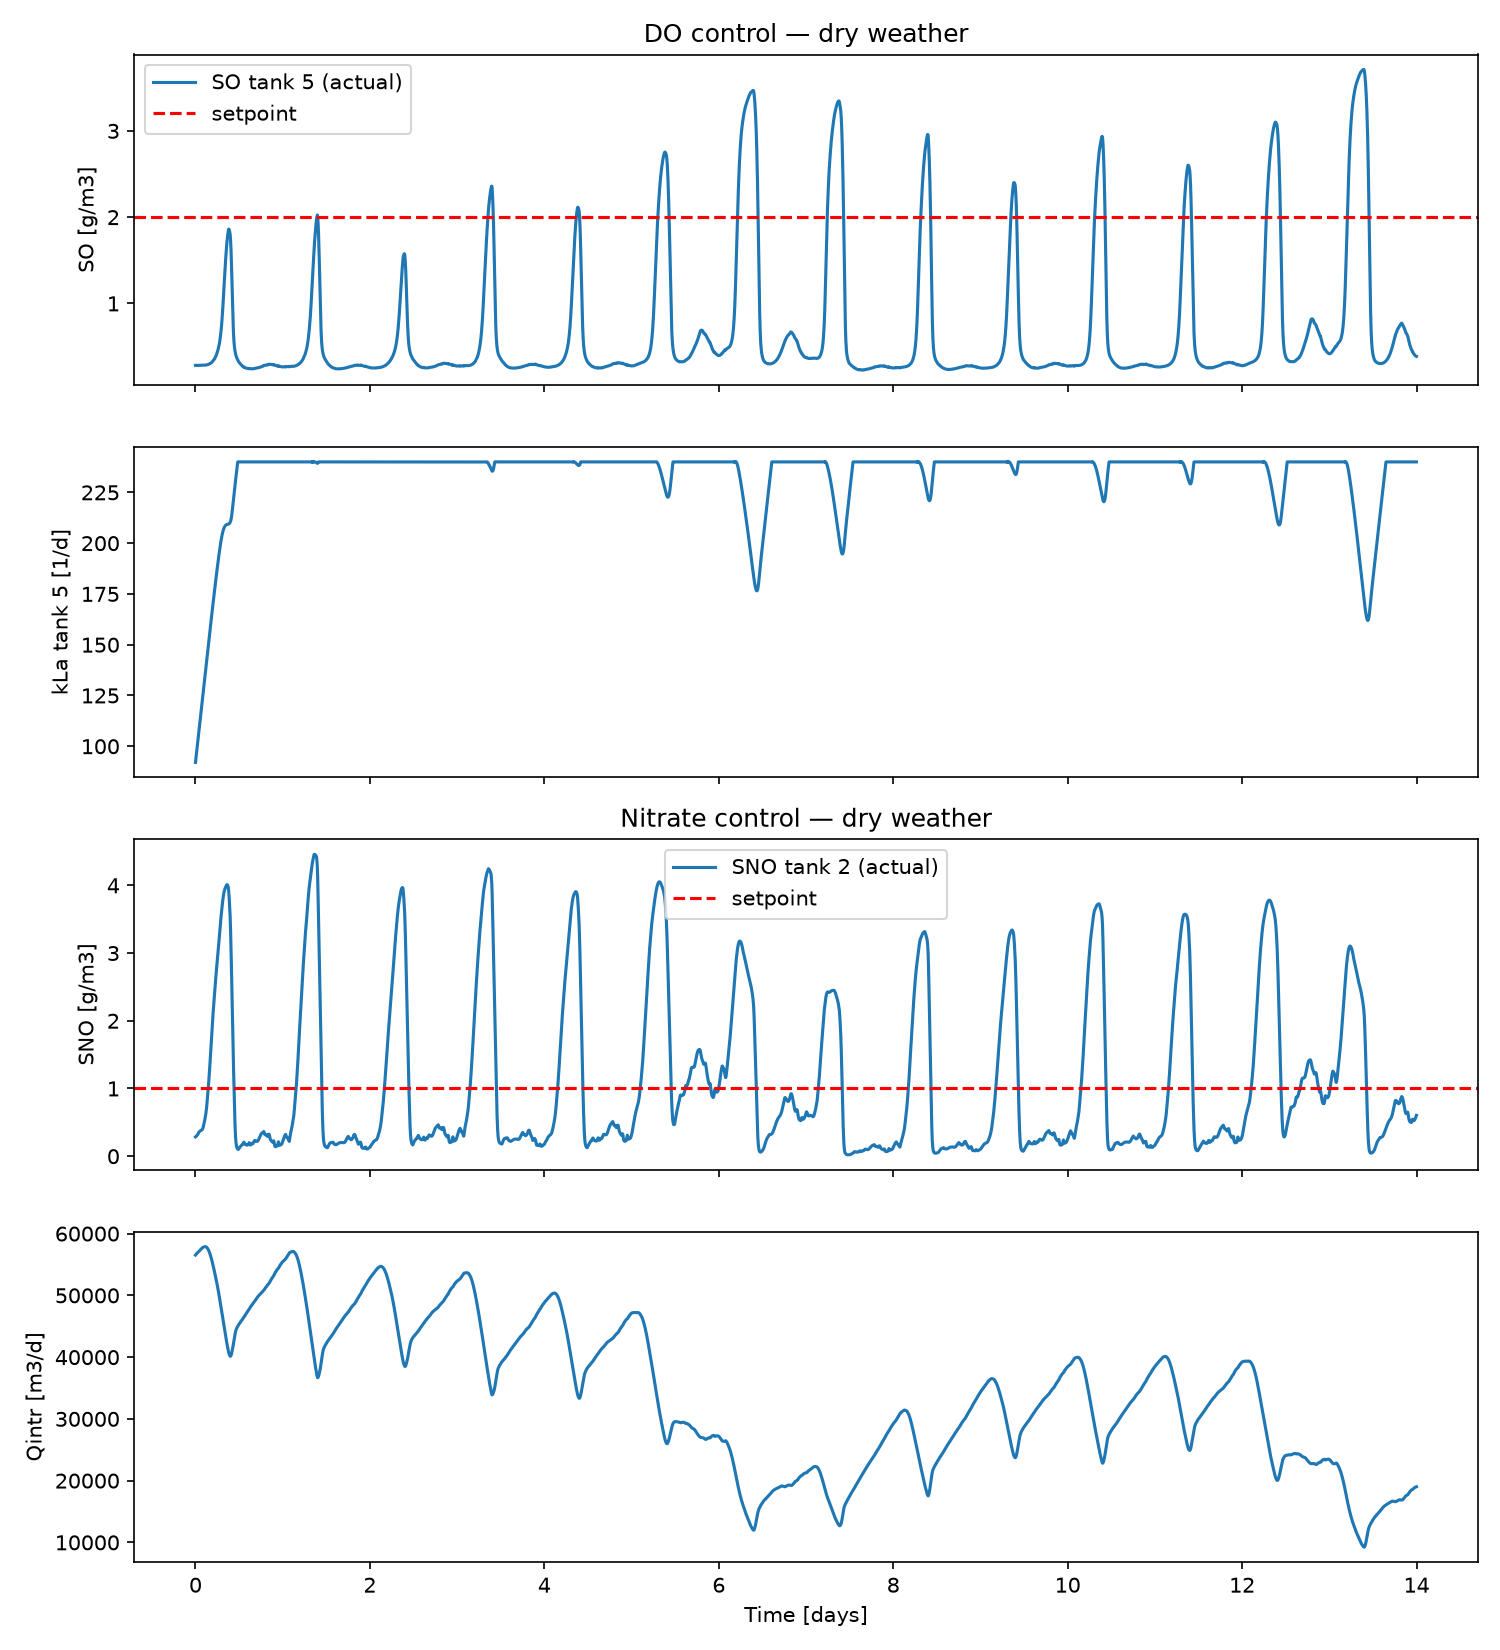
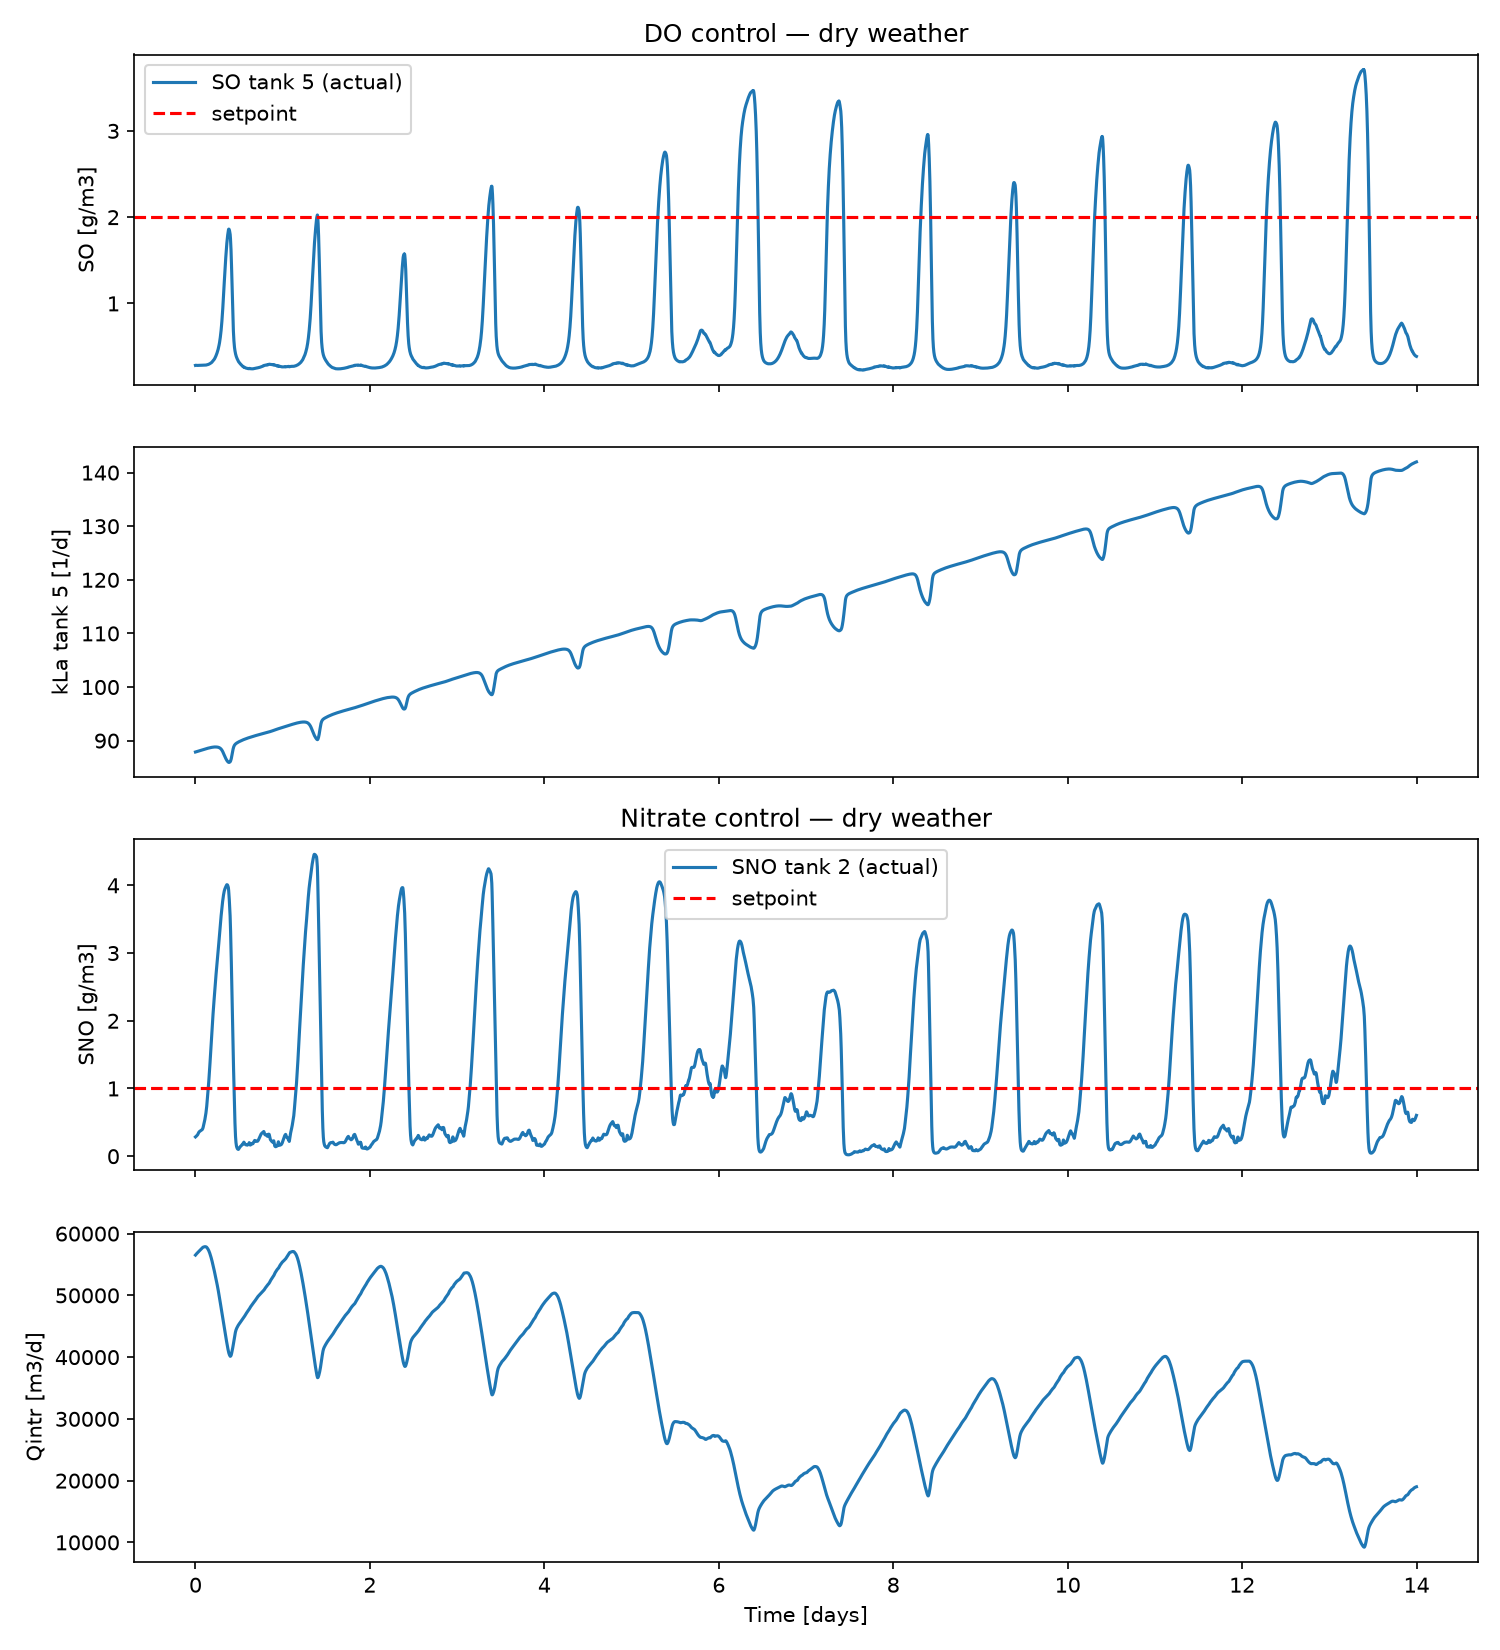
Fix: pass klas array directly to bsm1.step() -- Step 3 closed-loop now genuinely working

diff --git a/step3_closed_loop.py b/step3_closed_loop.py
@@ -1,13 +1,13 @@
 """
 step3_closed_loop.py
-Step 3 of the project: close the loop and simulate.
+Step 3 & 4 of the project: close the loop, simulate, and compare two controller tunings.
 
 Two independent PI controllers:
   1. DO controller: measures SO in tank 5, manipulates kLa in tank 5, setpoint 2 g/m3.
   2. Nitrate controller: measures SNO in tank 2, manipulates internal recycle flow, setpoint 1 g/m3.
 
-Controllers are tuned with the SIMC method using the FOPDT parameters found in Step 2.
-Run under dry weather first, as the project asks.
+This script runs the closed-loop plant TWICE under the same weather file, once for each
+named tuning set below, and prints/plots both so they can be compared directly.
 """
 import numpy as np
 import matplotlib
@@ -26,7 +26,7 @@ SNO_IDX = COMP['SNO']
 SP_SO = 2.0   # g/m3, setpoint for DO in tank 5
 SP_SNO = 1.0  # g/m3, setpoint for nitrate in tank 2
 
-# ---- FOPDT parameters from Step 2 (update these if you rerun step2 and get different numbers) ----
+# ---- FOPDT parameters from Step 2 ----
 KLA_K, KLA_TAU, KLA_THETA = 0.01150, 0.0198, 0.1906
 QINTR_K, QINTR_TAU, QINTR_THETA = 0.00019, 0.0625, 0.1000
 
@@ -34,23 +34,38 @@ QINTR_K, QINTR_TAU, QINTR_THETA = 0.00019, 0.0625, 0.1000
 KLA_MIN, KLA_MAX = 0.0, 240.0
 QINTR_MIN, QINTR_MAX = 0.0, 200000.0
 
+# ---- the two tuning sets we are comparing ----
+kp_kla_aggr, ti_kla_aggr = simc_tuning(KLA_K, KLA_TAU, KLA_THETA)                    # Set 1: aggressive
+kp_kla_soft, _ = simc_tuning(KLA_K, KLA_TAU, KLA_THETA, tc=3 * KLA_THETA)            # Set 2: gentler DO loop
+ti_kla_soft = 4 * KLA_THETA
 
-def run_closed_loop(weather_file='dry_data.txt', label='dry'):
-    print(f'\n=== Closed-loop simulation under {label} weather ===')
+kp_qintr_aggr, ti_qintr_aggr = simc_tuning(QINTR_K, QINTR_TAU, QINTR_THETA)          # nitrate loop: keep as-is for both sets
+
+TUNING_SETS = {
+    'Set1 (initial SIMC)': dict(
+        kp_kla=kp_kla_aggr, ti_kla=ti_kla_aggr,
+        kp_qintr=kp_qintr_aggr, ti_qintr=ti_qintr_aggr,
+    ),
+    'Set2 (detuned DO loop)': dict(
+        kp_kla=kp_kla_soft, ti_kla=ti_kla_soft,
+        kp_qintr=kp_qintr_aggr, ti_qintr=ti_qintr_aggr,
+    ),
+}
+
+
+def run_closed_loop(weather_file, weather_label, tuning_name, tuning):
+    print(f'\n=== {tuning_name} | {weather_label} weather ===')
+    print(f'  DO controller:      Kp={tuning["kp_kla"]:.4f}  Ti={tuning["ti_kla"]:.4f} d')
+    print(f'  Nitrate controller: Kp={tuning["kp_qintr"]:.4f}  Ti={tuning["ti_qintr"]:.4f} d')
+
     data_in = load_influent(weather_file)
     bsm1 = BSM1OL(data_in=data_in, timestep=TIMESTEP)
     bsm1.stabilize(atol=1e-5)
 
-    kla_bias = bsm1.klas[4]
-    qintr_bias = bsm1.qintr
-
-    kp_kla, ti_kla = simc_tuning(KLA_K, KLA_TAU, KLA_THETA)
-    kp_qintr, ti_qintr = simc_tuning(QINTR_K, QINTR_TAU, QINTR_THETA)
-    print(f'  DO controller:      Kp={kp_kla:.4f}  Ti={ti_kla:.4f} d')
-    print(f'  Nitrate controller: Kp={kp_qintr:.4f}  Ti={ti_qintr:.4f} d')
-
-    do_ctrl = PIController(kp_kla, ti_kla, TIMESTEP, KLA_MIN, KLA_MAX, bias=kla_bias)
-    no_ctrl = PIController(kp_qintr, ti_qintr, TIMESTEP, QINTR_MIN, QINTR_MAX, bias=qintr_bias)
+    do_ctrl = PIController(tuning['kp_kla'], tuning['ti_kla'], TIMESTEP,
+                            KLA_MIN, KLA_MAX, bias=bsm1.klas[4])
+    no_ctrl = PIController(tuning['kp_qintr'], tuning['ti_qintr'], TIMESTEP,
+                            QINTR_MIN, QINTR_MAX, bias=bsm1.qintr)
 
     n_steps = len(bsm1.timesteps)
     sim_t = bsm1.simtime[:n_steps]
@@ -69,9 +84,12 @@ def run_closed_loop(weather_file='dry_data.txt', label='dry'):
         u_kla, err_so = do_ctrl.update(SP_SO, so_current)
         u_qintr, err_sno = no_ctrl.update(SP_SNO, sno_current)
 
-        bsm1.klas[4] = u_kla
+        klas_arr = bsm1.klas.copy()
+        klas_arr[4] = u_kla
         bsm1.qintr = u_qintr
-        bsm1.step(i)
+        bsm1.step(i, klas_arr)
+        if i in (0, 1, 100, 5000):
+            print(f'    [i={i}] we set klas[4]={u_kla:.3f}, resulting SO={bsm1.y_out5_all[i, SO_IDX]:.4f}')
 
         so_current = bsm1.y_out5_all[i, SO_IDX]
         sno_current = bsm1.y_out2_all[i, SNO_IDX]
@@ -83,6 +101,9 @@ def run_closed_loop(weather_file='dry_data.txt', label='dry'):
         so_error[i] = err_so
         sno_error[i] = err_sno
 
+    print(f'  DEBUG checksum: so_response.sum()={so_response.sum():.6f}  kla_signal.sum()={kla_signal.sum():.6f}')
+    
+    iae_so = np.sum(np.abs(so_error)) * TIMESTEP
     iae_so = np.sum(np.abs(so_error)) * TIMESTEP
     iae_sno = np.sum(np.abs(sno_error)) * TIMESTEP
     ise_so = np.sum(so_error ** 2) * TIMESTEP
@@ -90,13 +111,11 @@ def run_closed_loop(weather_file='dry_data.txt', label='dry'):
     print(f'  ISE (DO tracking error)      = {ise_so:.4f}')
     print(f'  IAE (nitrate tracking error) = {iae_sno:.4f}')
 
-    # --- plots ---
     fig, axes = plt.subplots(4, 1, figsize=(10, 11), sharex=True)
-
     axes[0].plot(sim_t, so_response, label='SO tank 5 (actual)')
     axes[0].axhline(SP_SO, color='r', linestyle='--', label='setpoint')
     axes[0].set_ylabel('SO [g/m3]')
-    axes[0].set_title(f'DO control — {label} weather')
+    axes[0].set_title(f'{tuning_name} — DO control — {weather_label} weather')
     axes[0].legend()
 
     axes[1].plot(sim_t, kla_signal)
@@ -105,7 +124,7 @@ def run_closed_loop(weather_file='dry_data.txt', label='dry'):
     axes[2].plot(sim_t, sno_response, label='SNO tank 2 (actual)')
     axes[2].axhline(SP_SNO, color='r', linestyle='--', label='setpoint')
     axes[2].set_ylabel('SNO [g/m3]')
-    axes[2].set_title(f'Nitrate control — {label} weather')
+    axes[2].set_title(f'{tuning_name} — Nitrate control — {weather_label} weather')
     axes[2].legend()
 
     axes[3].plot(sim_t, qintr_signal)
@@ -113,7 +132,8 @@ def run_closed_loop(weather_file='dry_data.txt', label='dry'):
     axes[3].set_xlabel('Time [days]')
 
     plt.tight_layout()
-    outname = f'step3_closedloop_{label}.png'
+    safe_name = tuning_name.split()[0]
+    outname = f'step3_{safe_name}_{weather_label}.png'
     plt.savefig(outname, dpi=150)
     plt.close()
     print(f'  saved {outname}')
@@ -122,6 +142,10 @@ def run_closed_loop(weather_file='dry_data.txt', label='dry'):
 
 
 if __name__ == '__main__':
-    results = run_closed_loop('dry_data.txt', 'dry')
-    print('\n=== Summary (dry weather) ===')
-    print(results)
+    all_results = {}
+    for tuning_name, tuning in TUNING_SETS.items():
+        all_results[tuning_name] = run_closed_loop('dry_data.txt', 'dry', tuning_name, tuning)
+
+    print('\n=== Comparison summary (dry weather) ===')
+    for name, res in all_results.items():
+        print(f'{name}: IAE_DO={res["iae_so"]:.4f}  ISE_DO={res["ise_so"]:.4f}  IAE_NO3={res["iae_sno"]:.4f}')
